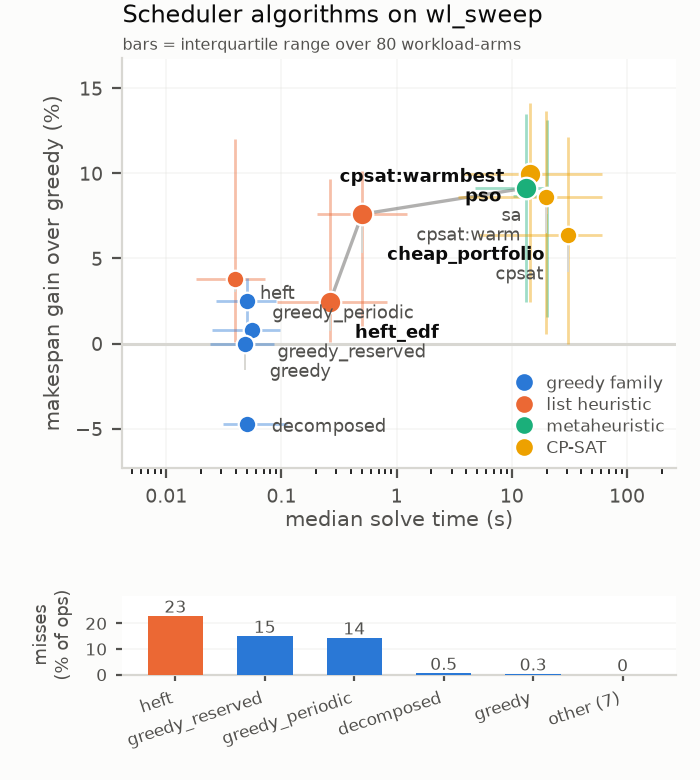
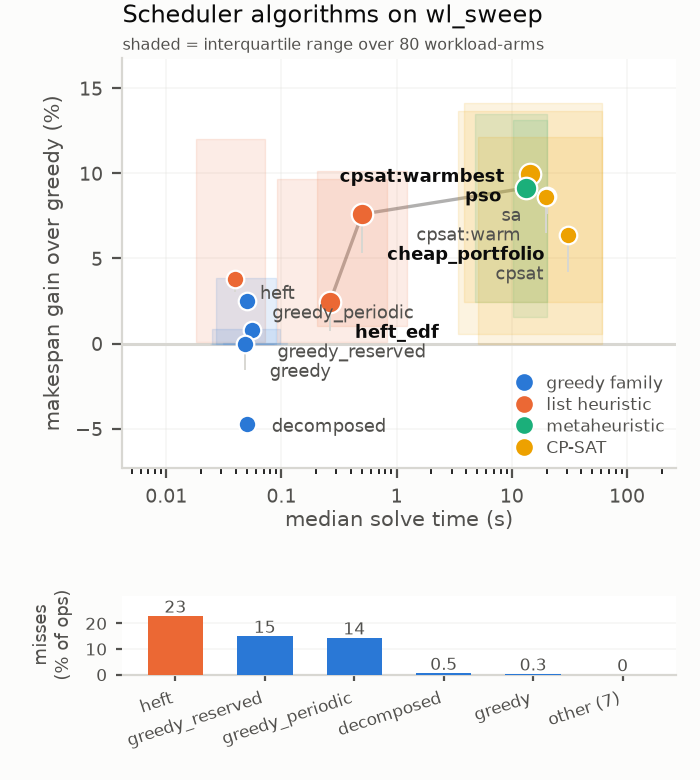
sched_algo_sweep10: interquartile region as a shaded area, not crossed bars
Twelve overlapping crosses read as noise -- the eye has to trace which arm
belongs to which centre. A filled region says the same thing (the middle half
of this solver's 80 workload-arms lands in here) and stays legible where
solvers overlap, which on the right of this plot they heavily do.

Same change in the config comparison, where the shaded areas make the point
that split exists for: CP-SAT's region sits at 3-20 s on homogeneous machines
and shifts to roughly 8-60 s on heterogeneous, while the heuristics' regions
barely move.

Changed region(s): [[0.27, 0.1538, 0.6, 0.4615], [0.63, 0.1231, 0.87, 0.4615], [0.18, 0.0308, 0.78, 0.0615]]

diff --git a/experiments/sched_algo_sweep10/scripts/plot_pareto_compact.py b/experiments/sched_algo_sweep10/scripts/plot_pareto_compact.py
@@ -20,6 +20,7 @@ import matplotlib
 matplotlib.use("Agg")
 import matplotlib.pyplot as plt
 from matplotlib.lines import Line2D
+from matplotlib.patches import Rectangle
 from matplotlib.ticker import FuncFormatter, NullFormatter
 
 HERE = os.path.dirname(os.path.abspath(__file__))
@@ -100,11 +101,14 @@ mid = 10 ** (sum(math.log10(v) for v in X.values()) / len(X))
 
 for s in S:
     x, y, col, on = X[s], Y[s], FAMILY[s], s in FRONT
-    # interquartile spread across the 80 workload-arms, both axes
-    ax.plot(XQ[s], [y, y], color=col, lw=1.0, alpha=0.42, zorder=2,
-            solid_capstyle="butt")
-    ax.plot([x, x], YQ[s], color=col, lw=1.0, alpha=0.42, zorder=2,
-            solid_capstyle="butt")
+    # Interquartile region as a soft box rather than crossed bars: twelve
+    # overlapping crosses read as noise, whereas a filled area is legible even
+    # where solvers overlap, and it says the same thing -- the middle half of
+    # this solver's 80 workload-arms lands in here.
+    (xa, xb), (ya, yb) = XQ[s], YQ[s]
+    ax.add_patch(Rectangle((xa, ya), xb - xa, yb - ya, facecolor=col,
+                           alpha=0.12, edgecolor=col, linewidth=0.5,
+                           joinstyle="round", zorder=1))
     ax.scatter([x], [y], s=(60 if WIDE else 40) * (1.5 if on else 1.0),
                color=col, edgecolor="white", linewidth=0.8, zorder=3)
     ly = label_y[s]
@@ -129,7 +133,7 @@ ax.set_xlabel("median solve time (s)", fontsize=FA, color=INK2, labelpad=1)
 ax.set_ylabel("makespan gain over greedy (%)", fontsize=FA, color=INK2)
 ax.set_title("Scheduler algorithms on wl_sweep", fontsize=FT, color=INK,
              loc="left", pad=13)
-ax.text(0.0, 1.012, "bars = interquartile range over 80 workload-arms",
+ax.text(0.0, 1.012, "shaded = interquartile range over 80 workload-arms",
         transform=ax.transAxes, fontsize=FG - 0.5, color=INK2, va="bottom")
 h = [Line2D([], [], marker="o", ls="", color=c, markersize=5, label=n)
      for c, n in FAMNAME.items()]

diff --git a/experiments/sched_algo_sweep10/scripts/plot_pareto_configs.py b/experiments/sched_algo_sweep10/scripts/plot_pareto_configs.py
@@ -18,6 +18,7 @@ import matplotlib
 matplotlib.use("Agg")
 import matplotlib.pyplot as plt
 from matplotlib.lines import Line2D
+from matplotlib.patches import Rectangle
 from matplotlib.ticker import FuncFormatter, NullFormatter
 
 HERE = os.path.dirname(os.path.abspath(__file__))
@@ -94,9 +95,11 @@ for ax, (name, note, Y, X, M, YQ, XQ) in zip(axes, G):
     mid = 10 ** (sum(math.log10(v) for v in X.values()) / len(X))
     for s in S:
         on = s in FRONT
-        # interquartile spread within this half of the sweep
-        ax.plot(XQ[s], [Y[s], Y[s]], color=FAMILY[s], lw=0.9, alpha=0.40, zorder=2)
-        ax.plot([X[s], X[s]], YQ[s], color=FAMILY[s], lw=0.9, alpha=0.40, zorder=2)
+        # interquartile region as a soft box (see plot_pareto_compact)
+        (xa, xb), (ya, yb) = XQ[s], YQ[s]
+        ax.add_patch(Rectangle((xa, ya), xb - xa, yb - ya, facecolor=FAMILY[s],
+                               alpha=0.12, edgecolor=FAMILY[s], linewidth=0.5,
+                               joinstyle="round", zorder=1))
         ax.scatter([X[s]], [Y[s]], s=(52 if WIDE else 34) * (1.5 if on else 1.0),
                    color=FAMILY[s], edgecolor="white", linewidth=0.8, zorder=3)
         ly = label_y[s]
